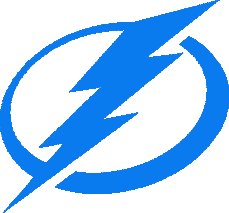
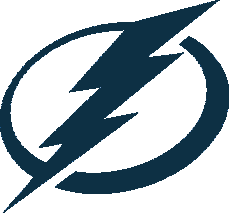
Update

diff --git a/src/index.css b/src/index.css
@@ -75,10 +75,13 @@ border-radius: 20px;
 }
 .prependsend6545487{
   background-color: white;
-  color: #0a7bef;
+  color: #0D3044;
   font-size: 18px !important;
   border-right: none;
   padding: 18.5px !important;
+}
+.text-primary{
+  color: #0D3044 !important;
 }
 .inp65645987:focus,.ingetsearch:focus{
   box-shadow: none;
@@ -102,6 +105,8 @@ border-radius: 20px;
   overflow-y:scroll;
 }
 .btexch6659775{
+  background-color: #0D3044 !important;
+  border-color:#0D3044!important;
   margin-top: 11%;
 }
 .btnbord6565487{
@@ -160,9 +165,29 @@ font-weight: bold;
 }
 .sdssxs{
   width: 370%;
-/*  overflow: hidden;*/
-}
 
+}
+.img-container{
+  height: 320px;
+background-image: -webkit-linear-gradient(54deg, #000F18 34%, #0D3044 100%);
+background-image: -o-linear-gradient(54deg, #000F18 34%, #0D3044 100%);
+background-image: linear-gradient(36deg, #122138 34%, #0D3044 100%);
+background-image:linear-gradient(36deg, #122138 34%, #0D3044 100%);
+margin-top: 8%;
+}
+.img-container img{
+margin-top: -6%;
+}
+.img-container h2{
+  padding: 4% 0;
+}
+.img-container h2 , h3 {
+  color: white;
+  font-weight: lighter;
+}
+.img-container h3{
+  font-size: 1.5rem;
+}
 .crypto_wrapper{
   margin-top: 1.8%;
   animation-timing-function: linear;

diff --git a/src/Component/Footer.js b/src/Component/Footer.js
@@ -1,5 +1,5 @@
 import React, {Component} from 'react';
-
+import responsive from "../img/responsive.png";
 class Footer extends Component {
   render() {
     return (
@@ -56,6 +56,18 @@ class Footer extends Component {
               <p className="lead">The security of your funds is our main priority,we perform a daily maintenance on the servers with our services your funds <span className="text-primary"> will never be lost or stolen. </span></p>
             </div>
           </div>
+        </div>
+        <div className="container-fluid img-container">
+          <div className="row justify-content-center">
+            <div className="col-md-6">
+              <img src={responsive} alt="Logo mobile tablette" className="img-fluid"/>
+            </div>
+            <div className="col-md-3">
+              <h2>FRIENDLY INTERFACE</h2>
+              <h3>Whether you use a mobile phone , <br></br>a tablette or a desktop computer.</h3>
+            </div>
+          </div>
+
         </div>
       </div>
     );
